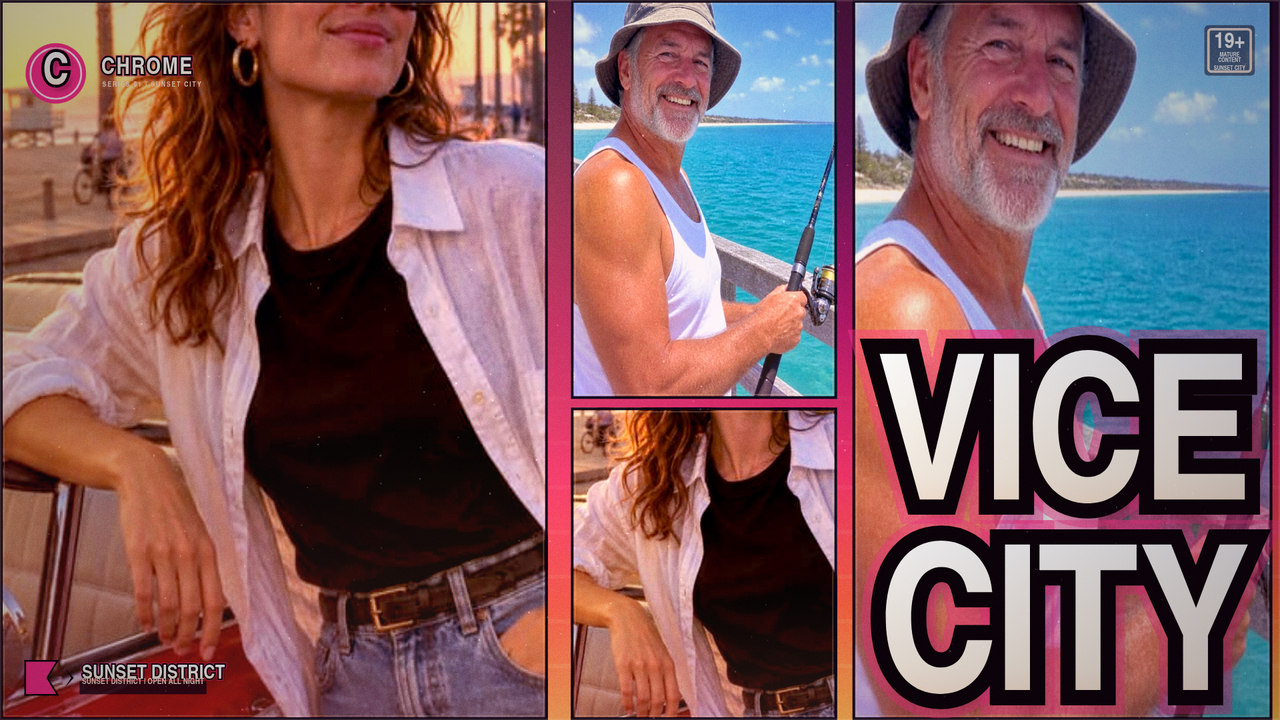
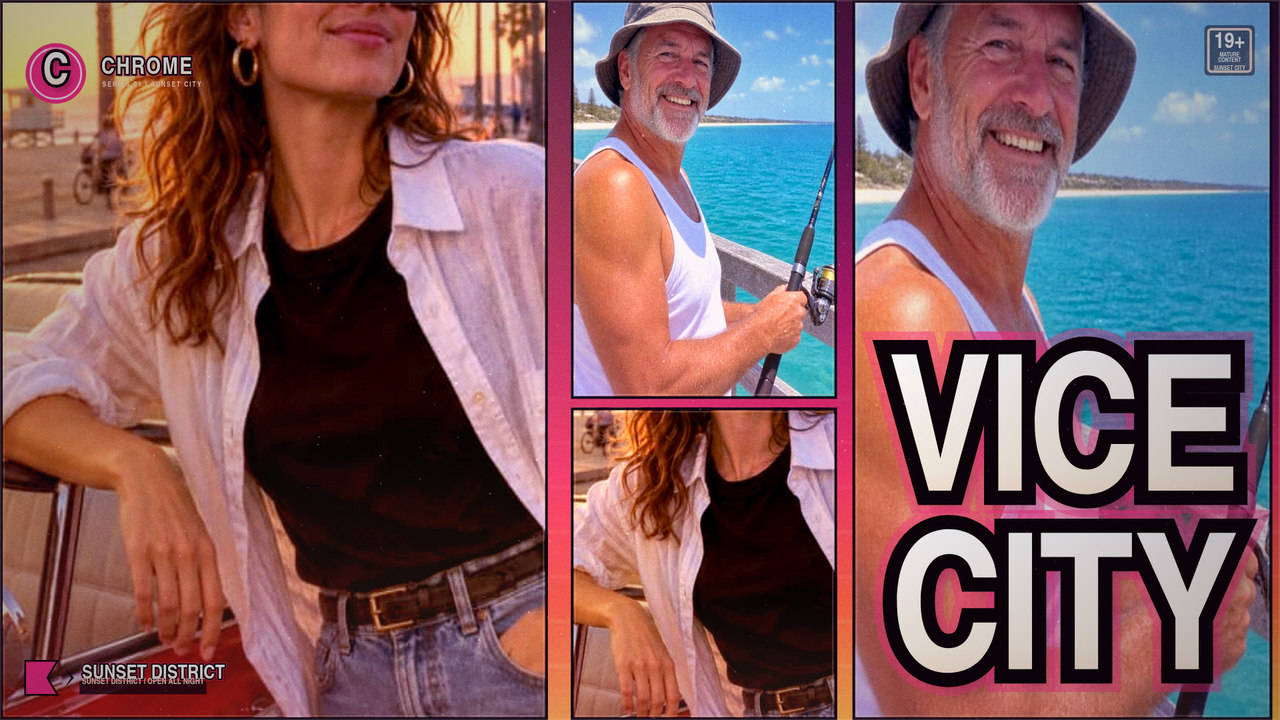
Crop-varied cover scenes and JPEG re-encode

Changed region(s): [[0.6562, 0.4583, 1.0, 1.0]]

diff --git a/app/src/cover.js b/app/src/cover.js
@@ -471,7 +471,7 @@ export function setCaption(ctx, caption, boxW, boxH, weight = 0.62) {
   for (const word of words) {
     const next = row === '' ? word : `${row} ${word}`;
     ctx.font = font(boxH * weight);
-    if (row !== '' && ctx.measureText(next).width > boxW * 1.08) {
+    if (row !== '' && ctx.measureText(next).width > boxW * 1.3) {
       rows.push(row);
       row = word;
     } else {
@@ -479,7 +479,7 @@ export function setCaption(ctx, caption, boxW, boxH, weight = 0.62) {
     }
   }
   if (row) rows.push(row);
-  const rowsHeight = boxH / (rows.length + (kicker ? 0.55 : 0));
+  let rowsHeight = boxH / (rows.length + (kicker ? 0.55 : 0));
   const longest = rows.reduce((a, b) => (a.length > b.length ? a : b), '');
   // A headline of one word knows its width exactly, so the room it is given is the largest the box allows: a line of
   // that width fits the box at the size found by the first measure, so it is scaled up to fill the box instead of
@@ -488,7 +488,7 @@ export function setCaption(ctx, caption, boxW, boxH, weight = 0.62) {
     const probe = fitWord(ctx, longest, boxW, rowsHeight, weight * 1.85);
     ctx.font = font(probe);
     const lineW = ctx.measureText(longest).width;
-    if (lineW > 0 && lineW < boxW) rowsHeight = Math.min(boxH * 2.4, (rowsHeight * boxW) / lineW);
+    if (lineW > 0 && lineW < boxW) rowsHeight = Math.min(boxH * 0.72, (rowsHeight * boxW) / lineW);
   }
   const size = fitWord(ctx, longest, boxW, rowsHeight, weight * 1.85);
   const lines = rows.map((text) => ({ text, size, kind: 'head' }));
@@ -858,13 +858,11 @@ export function renderCover(ctx, state) {
   // A vertical caption is a column of letters, so its size is the column's width (one glyph across), not the height.
   // The headline is set one line deep: its box is sized for the rows it needs, so the lettering fills the panel's
   // width as one heavy block instead of standing small in a box made for a stack of words.
-  const head = splitCaption(state.caption ?? '').headline.split(/\s+/).filter(Boolean).length;
-  const rows = Math.max(1, slot.vertical ? 1 : Math.min(head, 2));
+  // A wide weight makes the headline the poster's block: one line fills the column when the whole headline fits on
+  // one, and a headline too long for a single line falls back to a stacked block set in proportion to the room.
   const block = slot.vertical
     ? setCaption(ctx, state.caption ?? '', boxW, boxW * 1.4, 0.74)
-    : setCaption(ctx, state.caption ?? '', boxW, boxH * (0.55 / rows), 0.99);
-  // The box the block is set to its foot in: the room those rows take, standing at the panel's foot.
-  const blockH = slot.vertical ? boxH : Math.min(boxH, block.total / 0.9);
+    : setCaption(ctx, state.caption ?? '', boxW, boxH, 0.62);
   if (block.lines.length > 0 && block.lines[0].text) {
     measureCaption(ctx, block, boxW, boxH);
     const bx = (slot.caption.x + slot.caption.w / 2) * w;
